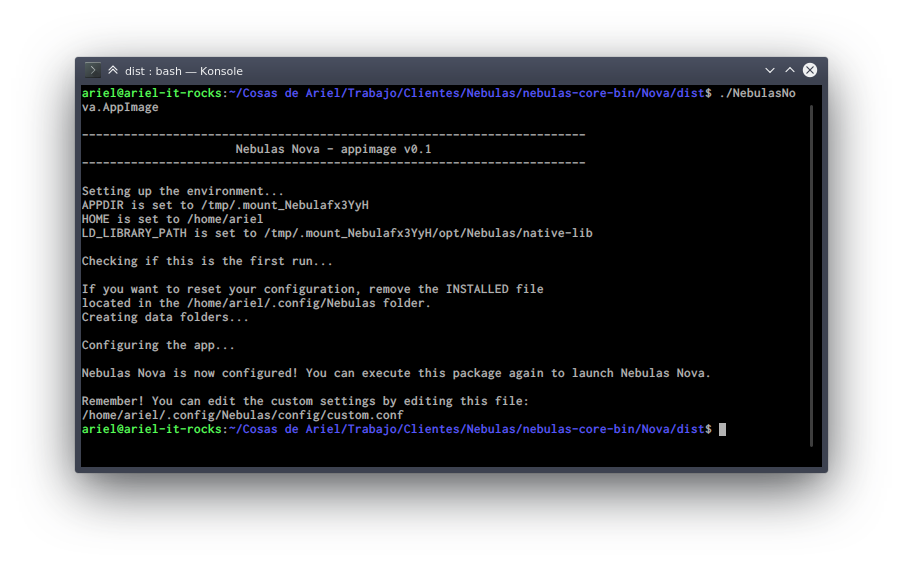
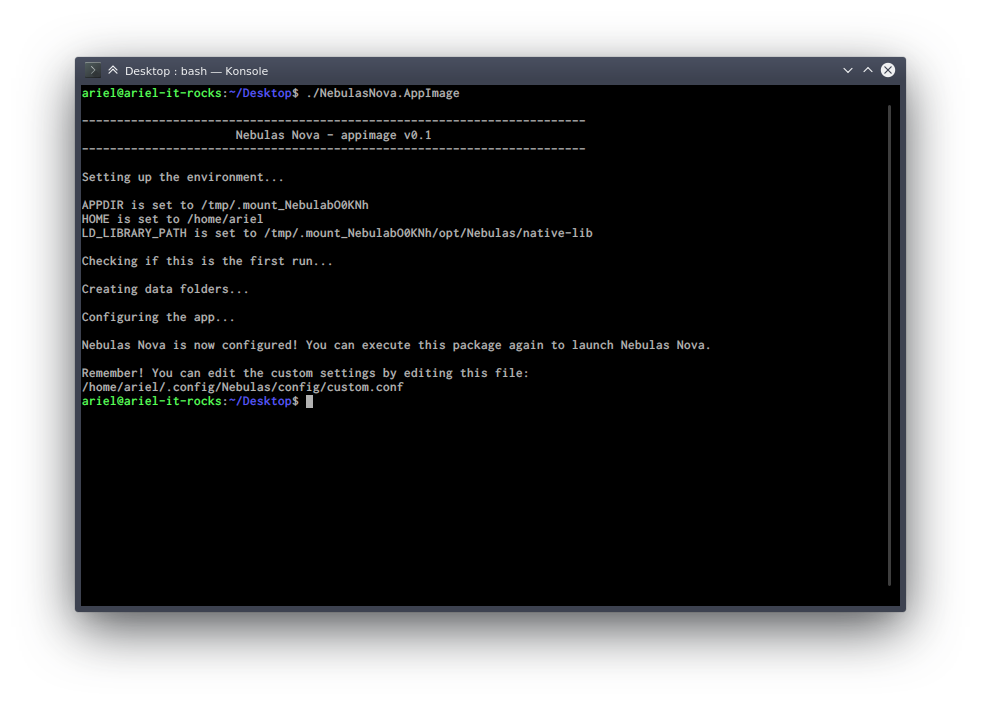
Improving the README

Changed region(s): [[0.062, 0.0601, 0.9302, 0.9311]]

diff --git a/README.md b/README.md
@@ -6,7 +6,7 @@ The project is still in development.
 
 ## Installation
 
-You will find the binary packages in the /dist folder inside each version of Nebulas. For example, the current version is Nebulas Nova, so you will find the packages [here](Nova/dist).
+You will find an index for the binary packages in the /dist folder inside each version of Nebulas. For example, the current version is Nebulas Nova, so you will find the index for the packages [here](Nova/dist).
 
 ### AppImage
 
@@ -18,25 +18,12 @@ You need to download the .appimage, set the permissions to +x, and launch it.
 
 The current version of Nebulas is Nebulas Nova.
 
-You can download the appimage just by [clicking here](https://arielbecker.com/assets/NebulasNova.AppImage).
+Open a console, then type the following:
 
-#### Installing
-
-There's no need to _install_ anything. You only need to set the file permissions to +x (executable).
-
-In your desktop, open the folder where you have the .appimage. Copy the location (usually you can achieve this by pressing at the same time _CTRL_ and _L_, then _CTRL_ and _C_.
-
-Now, open a console (or terminal). Write the following:
-
-    cd (paste here the location you've copied before).
-
-To paste the location, you usually need to press _CTRL_, _SHIFT_, and _P_ together.
-
-Then, write the following (assuming your appimage file is NebulasNova.AppImage):
-
+    mkdir ~/Nebulas
+    cd ~/Nebulas
+    wget https://arielbecker.com/assets/NebulasNova.AppImage
     chmod +x NebulasNova.AppImage
-
-Done! Do not close the console yet. You'll need it for the next step.
 
 #### Launching
 
@@ -44,11 +31,15 @@ Now, the only thing you need to do is launch the process. This can be achieved a
 
     ./NebulasNova.AppImage
 
-The first time you launch the .appimage, you'll see it copies several files to your user folder, then it launches the **neb** binary.
+The first time you launch the .appimage, you'll see it copies several files to your user folder. Those are config files needed to run the binary. It will end without launching Nebulas.
 
 If everything's done right, you'll see something like this:
 
 ![Screenshot of the .appimage launching](screenshot1.png)
+
+To do so, you just need to launch the script again, as follows:
+
+    ./NebulasNova.AppImage
 
 By launching it a second time, you'll have a prompt asking you to choose between four choices:
 
